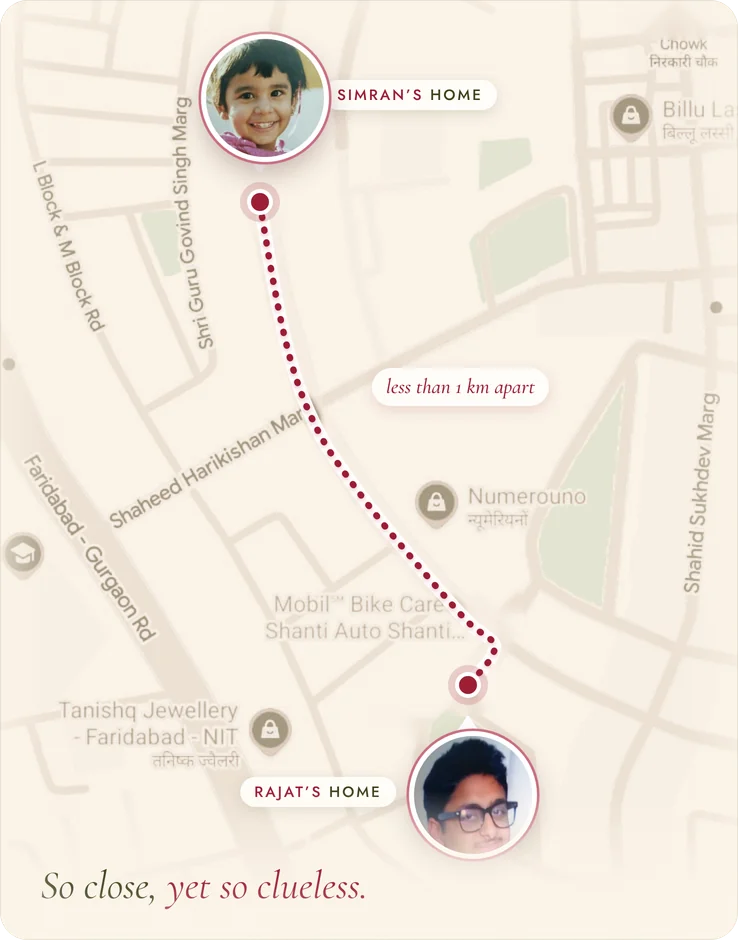
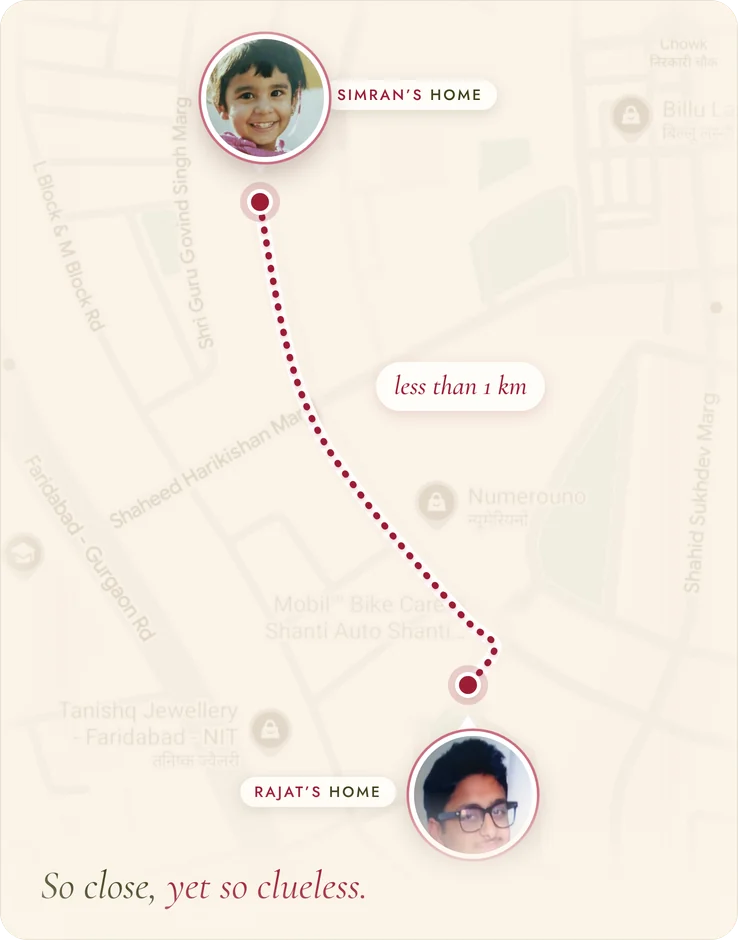
Our Story: updated text; map details lighter, 'less than 1 km' tag larger
Claude-Session: https://claude.ai/code/session_017GcfSBjfveMfY8L2d8GX4C

diff --git a/index.html b/index.html
@@ -36,7 +36,7 @@
   <link rel="preconnect" href="https://fonts.googleapis.com">
   <link rel="preconnect" href="https://fonts.gstatic.com" crossorigin>
   <link href="https://fonts.googleapis.com/css2?family=Cormorant+Garamond:ital,wght@0,300;0,400;0,500;1,300;1,400&family=Jost:wght@300;400;500&family=Tiro+Devanagari+Hindi&display=swap" rel="stylesheet">
-  <link rel="stylesheet" href="css/style.css?v=20261023221617">
+  <link rel="stylesheet" href="css/style.css?v=20261023225848">
   <script>document.documentElement.classList.add('js');</script>
 </head>
 <body>
@@ -141,7 +141,7 @@
 
         <div class="story__intro">
           <figure class="story__map" data-reveal>
-            <img src="assets/flora/our-map-sm.webp" srcset="assets/flora/our-map-sm.webp 738w, assets/flora/our-map.webp 1476w"
+            <img src="assets/flora/our-map-sm.webp?v=2" srcset="assets/flora/our-map-sm.webp?v=2 738w, assets/flora/our-map.webp?v=2 1476w"
                  sizes="(min-width: 900px) 40vw, 92vw" width="1476" height="1880" loading="lazy" decoding="async"
                  alt="A map of Faridabad with Simran’s and Rajat’s childhood homes marked by their childhood photos, less than a kilometre apart. Caption: So close, yet so clueless.">
           </figure>
@@ -279,10 +279,10 @@
     <p class="lightbox__count" id="lightboxCount"></p>
   </div>
 
-  <script src="js/config.js?v=20261023221617"></script>
-  <script src="js/edition.js?v=20261023221617"></script>
-  <script src="assets/media-manifest.js?v=20261023221617"></script>
+  <script src="js/config.js?v=20261023225848"></script>
+  <script src="js/edition.js?v=20261023225848"></script>
+  <script src="assets/media-manifest.js?v=20261023225848"></script>
   <script src="https://cdn.jsdelivr.net/npm/lenis@1.1.13/dist/lenis.min.js" defer></script>
-  <script src="js/main.js?v=20261023221617" defer></script>
+  <script src="js/main.js?v=20261023225848" defer></script>
 </body>
 </html>

diff --git a/js/config.js b/js/config.js
@@ -39,7 +39,7 @@ window.WEDDING = {
   story: {
     title: "How it all began",
     intro:
-      "Less than a kilometre apart for 16 years, and somehow, we never crossed paths. Then an Indian classical music class brought us into the same room, sharing the same sur but never a single word. A single Facebook poke broke the silence, and after days of poking back and forth, it all began. Two school kids who knew nothing about life, we promised never to give up on each other, and through long distances, ghar walon ki daant, and every up and down, we’ve held on for more than 11 years. Now we can’t wait to make it official.",
+      "Less than a kilometre apart for 16 years, and somehow, we never crossed paths. Then a music class brought us into the same room, sharing the same sur but never a single word. A Facebook poke broke the silence, and after days of poking back and forth, it all began. Two school kids who knew nothing about life, promised to never give up on each other, and through long distances, ghar walon ki daant, and every up and down, we’ve held on for more than 11 years. Now we can’t wait to make it official.",
     milestones: [                                                           // ✎ 2–6 items
       { when: "Year", title: "The first hello",   text: "A line or two about how you met." },
       { when: "Year", title: "Our first journey", text: "A favourite memory together." },
